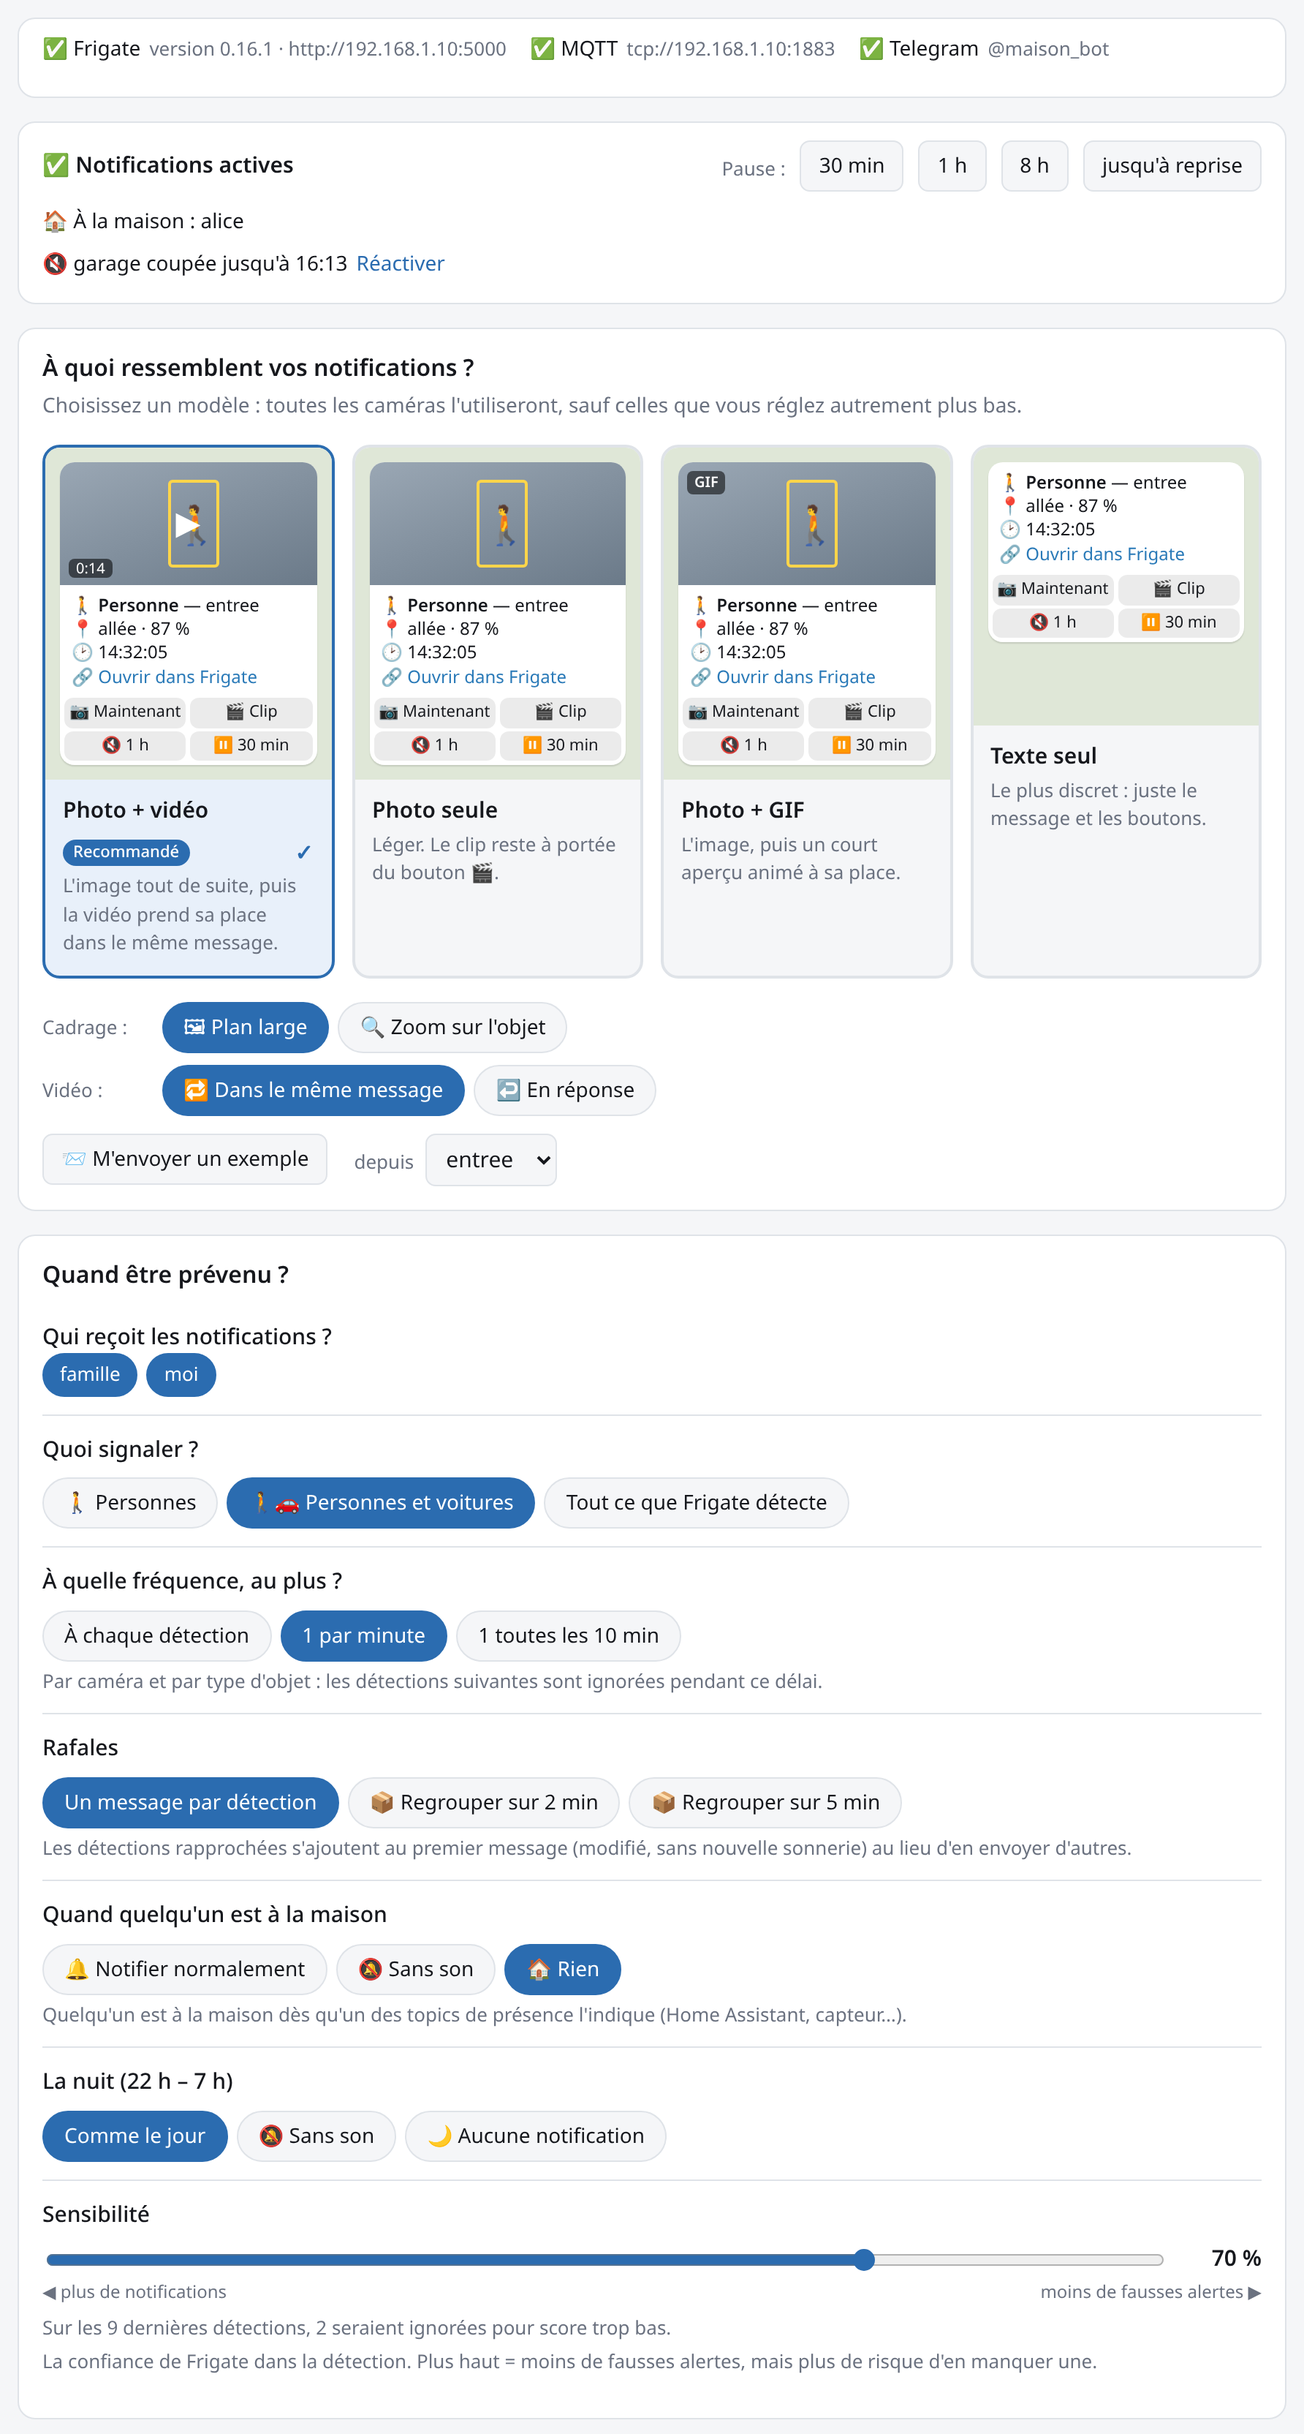
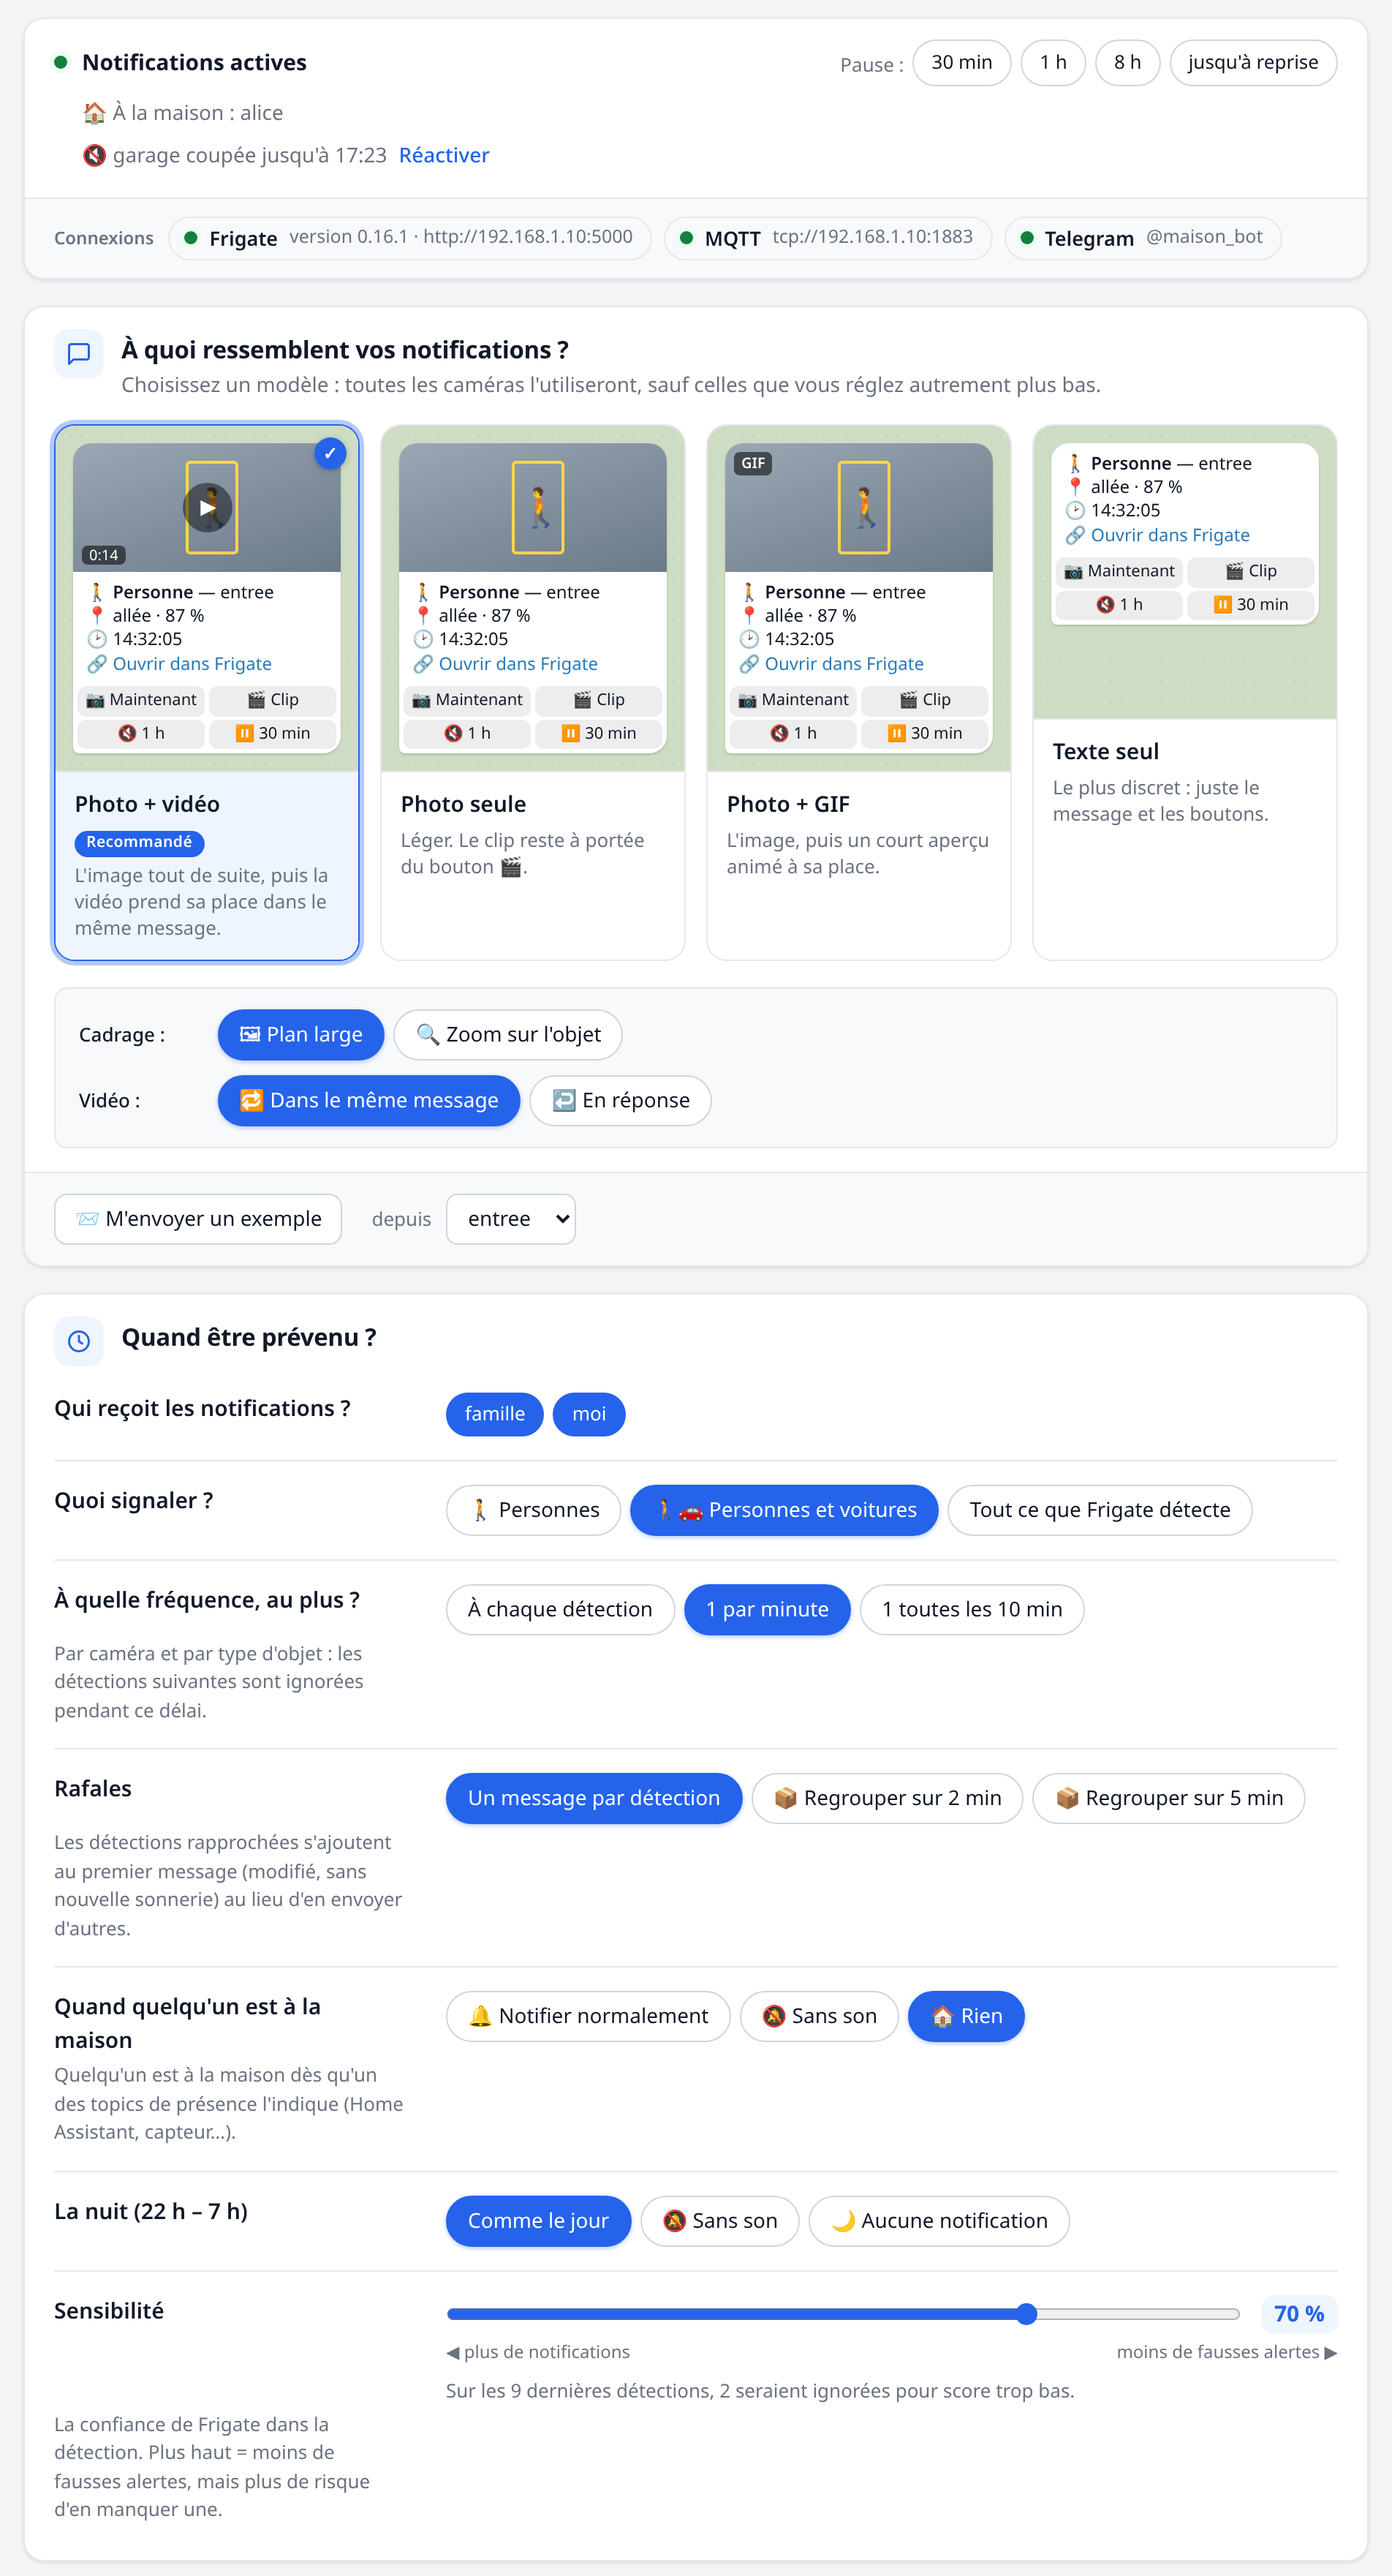
docs: README et captures alignés sur la nouvelle interface
- carte « État » unique (connexions, pause, présence, caméras coupées)
- lien Frigate dans les réglages avancés (groupe « Liens »), FRIGATE_URL par
  défaut ; choix « Vidéo » à côté du cadrage
- réglages avancés rangés par thème, barre Enregistrer / Annuler, sommaire latéral
- captures refaites en anglais et en français

diff --git a/README.fr.md b/README.fr.md
@@ -164,11 +164,14 @@ sont lues dans l'environnement du conteneur. Points clés :
 
 `http://<ip-du-serveur>:8431/` sert une page de réglage des notifications, pensée pour se
 régler en quelques clics. Elle suit la langue du navigateur (français ou anglais) ; le
-sélecteur **EN / FR** de l'en-tête la change, et le choix est retenu.
+sélecteur **EN / FR** de l'en-tête la change, et le choix est retenu. Sur grand écran,
+un sommaire latéral mène à chaque section.
 
-- **État des connexions** : Frigate, MQTT et Telegram d'un coup d'œil ; en cas de
-  problème, la cause en clair et la variable à corriger (mauvais mot de passe, adresse
-  injoignable, token invalide, `localhost` utilisé dans Docker…).
+- **État** : une carte en haut de page avec les connexions à Frigate, MQTT et Telegram,
+  l'état des notifications, qui est à la maison et les caméras coupées. Quand une
+  connexion échoue, la cause en clair et la variable à corriger (mauvais mot de passe,
+  adresse injoignable, token invalide, `localhost` utilisé dans Docker…). Pause de
+  30 min, 1 h, 8 h ou jusqu'à reprise, et réactivation des caméras coupées depuis Telegram.
 - **Modèles de notification** : *Photo + vidéo*, *Photo seule*, *Photo + GIF* ou
   *Texte seul*, chacun avec un aperçu du message tel qu'il arrivera dans Telegram.
 - **Questions simples** : quoi signaler (personnes, personnes et voitures, tout), à
@@ -176,8 +179,7 @@ sélecteur **EN / FR** de l'en-tête la change, et le choix est retenu.
   la présence configurée, quand quelqu'un est à la maison.
 - **Rafales** : un message par détection, ou les détections des 2 ou 5 minutes suivantes
   ajoutées au premier message (modifié, donc sans nouvelle sonnerie). **Cadrage** : plan
-  large ou zoom sur l'objet. **Lien Frigate** : l'adresse utilisée par « Ouvrir dans
-  Frigate », avec un bouton pour la tester.
+  large ou zoom sur l'objet. **Vidéo** : dans le même message que l'image, ou en réponse.
 - **Sensibilité** : un curseur de score minimal qui montre, sur l'activité récente,
   combien de détections auraient été ignorées.
 - **Destinataires** (avec plusieurs chats) : ce que reçoit chaque personne — tout, les
@@ -189,20 +191,21 @@ sélecteur **EN / FR** de l'en-tête la change, et le choix est retenu.
   certaines zones, en un clic.
 - **Essai** : *M'envoyer un exemple* envoie une vraie notification de test aux
   destinataires, avec l'image en direct de la caméra et les réglages enregistrés.
-- **Pause** : un bandeau indique si les notifications sont actives ; pause de 30 min,
-  1 h, 8 h ou jusqu'à reprise, et réactivation des caméras coupées depuis Telegram.
 - **Activité récente** : les 50 dernières détections avec leur miniature et leur
   issue — ✅ envoyée, ou ⛔ ignorée avec la raison en clair (hors zone, score trop bas,
   déjà signalé il y a peu…) et un lien pour régler la caméra concernée. L'historique est
   gardé en mémoire et repart de zéro au redémarrage du service.
 - **Alertes de cohérence** : une caméra réglée pour signaler un objet que Frigate n'y
   suit pas (absent de `objects.track`) est signalée.
-- **Réglages avancés** (repliés) : tous les réglages en détail — zones, scores,
-  plages horaires sur mesure, délais… — en global puis caméra par caméra. Les zones et
-  les objets proposés viennent de l'API de Frigate.
+- **Réglages avancés** (repliés) : tous les réglages en détail, rangés par thème —
+  destinataires et filtrage, médias, rythme, horaires et présence, liens — en global
+  puis caméra par caméra. Les zones et les objets proposés viennent de l'API de Frigate.
+  **Liens** contient l'adresse utilisée par « Ouvrir dans Frigate » (défaut :
+  `FRIGATE_URL`), avec un bouton pour la tester.
 
-Un enregistrement prend effet **immédiatement**, sans redémarrage, et n'est accepté que
-s'il est valide — un réglage refusé laisse le service sur les précédents.
+Dès qu'un réglage change, une barre apparaît en bas de page avec **Enregistrer** et
+**Annuler**. Un enregistrement prend effet **immédiatement**, sans redémarrage, et n'est
+accepté que s'il est valide — un réglage refusé laisse le service sur les précédents.
 
 Les réglages sont enregistrés dans le volume de données (`/data/notify.yml`), à côté de
 l'état (pauses, cooldowns) : ils survivent aux redémarrages et aux mises à jour. Avec un

diff --git a/README.md b/README.md
@@ -164,11 +164,14 @@ values in it are read from the container's environment. Key points:
 
 `http://<server-ip>:8431/` serves a page to configure notifications, designed to be set
 up in a few clicks. It follows the browser's language (English or French); the
-**EN / FR** switch in the header changes it and is remembered.
+**EN / FR** switch in the header changes it and is remembered. On a wide screen, a side
+menu jumps to each section.
 
-- **Connection status**: Frigate, MQTT and Telegram at a glance; when one fails, the
-  cause in plain words and the variable to fix (wrong password, unreachable address,
-  invalid token, `localhost` used inside Docker…).
+- **Status**: one card at the top with the connections to Frigate, MQTT and Telegram,
+  whether notifications are active, who is home and which cameras are muted. When a
+  connection fails, the cause in plain words and the variable to fix (wrong password,
+  unreachable address, invalid token, `localhost` used inside Docker…). Pause for
+  30 min, 1 h, 8 h or until resumed, and re-enable cameras muted from Telegram.
 - **Notification styles**: photo + video, photo only, photo + GIF or text only, each
   with a preview of the message as it will arrive in Telegram.
 - **Simple questions**: what to report (people, people and cars, everything), how often
@@ -176,7 +179,7 @@ up in a few clicks. It follows the browser's language (English or French); the
   set up, when someone is home.
 - **Bursts**: one message per detection, or detections within 2 or 5 minutes added to
   the first message (edited, so no extra sound). **Framing**: wide shot or zoom on the
-  object. **Frigate link**: the address used by "Open in Frigate", with a test button.
+  object. **Video**: in the same message as the image, or as a reply.
 - **Sensitivity**: a slider for the minimum score that shows, on recent activity, how
   many detections would have been ignored.
 - **Recipients** (with several chats): what each person receives — every object, people
@@ -188,20 +191,21 @@ up in a few clicks. It follows the browser's language (English or French); the
   zones, in one click.
 - **Try it**: the sample button sends a real test notification to the recipients, with
   the camera's live image and the saved settings.
-- **Pause**: a banner shows whether notifications are active; pause for 30 min, 1 h,
-  8 h or until resumed, and re-enable cameras muted from Telegram.
 - **Recent activity**: the last 50 detections with their thumbnail and outcome —
   ✅ sent, or ⛔ ignored with the reason in plain words (outside the zones, score too
   low, already reported a moment ago…) and a link to adjust the camera. The history is
   kept in memory and starts over when the service restarts.
 - **Consistency warnings**: a camera set to report an object that Frigate does not
   track on it (missing from `objects.track`) is flagged.
-- **Advanced settings** (collapsed): every setting in detail — zones, scores, custom
-  time ranges, delays… — globally, then camera by camera. The zones and objects offered
-  come from Frigate's API.
+- **Advanced settings** (collapsed): every setting in detail, sorted by theme —
+  recipients and filtering, media, pace, schedule and presence, links — globally, then
+  camera by camera. The zones and objects offered come from Frigate's API. **Links**
+  holds the address used by "Open in Frigate" (default: `FRIGATE_URL`), with a button
+  to test it.
 
-Saving takes effect **immediately**, without a restart, and is only accepted if valid —
-a rejected change leaves the service on the previous settings.
+As soon as something changes, a bar appears at the bottom of the page with **Save**
+and **Cancel**. Saving takes effect **immediately**, without a restart, and is only
+accepted if valid — a rejected change leaves the service on the previous settings.
 
 Settings are saved in the data volume (`/data/notify.yml`), next to the state (pauses,
 cooldowns), so they survive restarts and updates. With a configuration file, they
